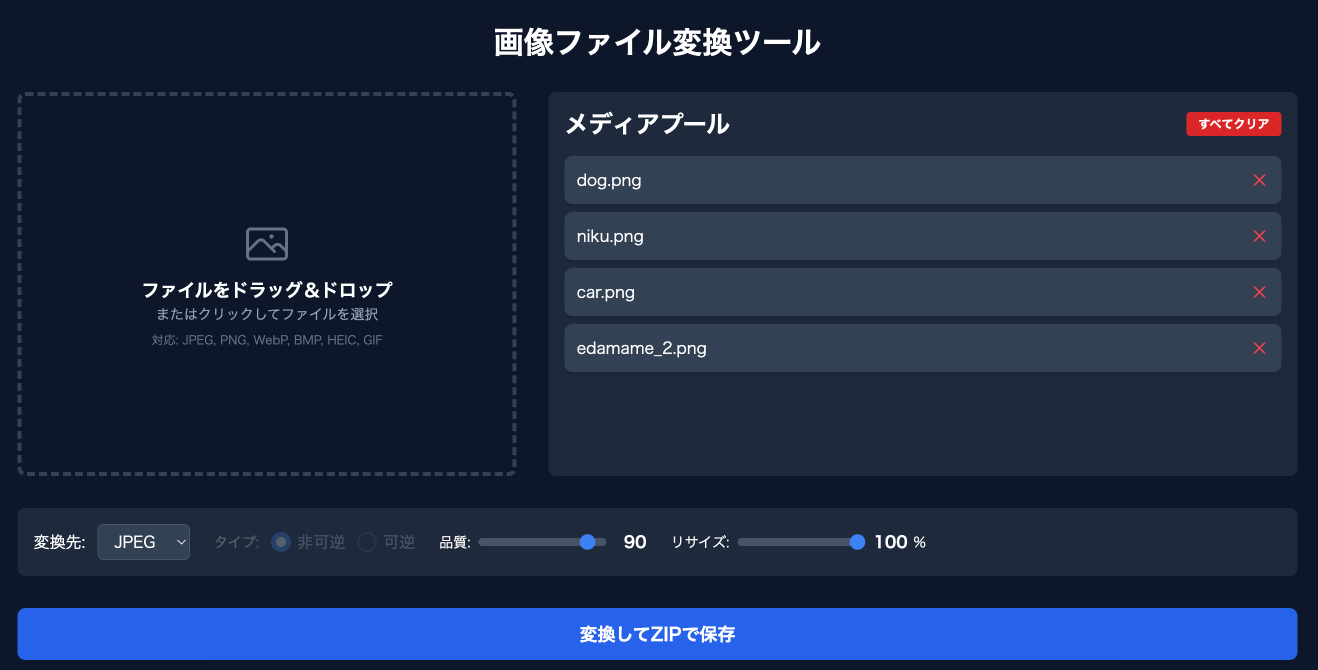
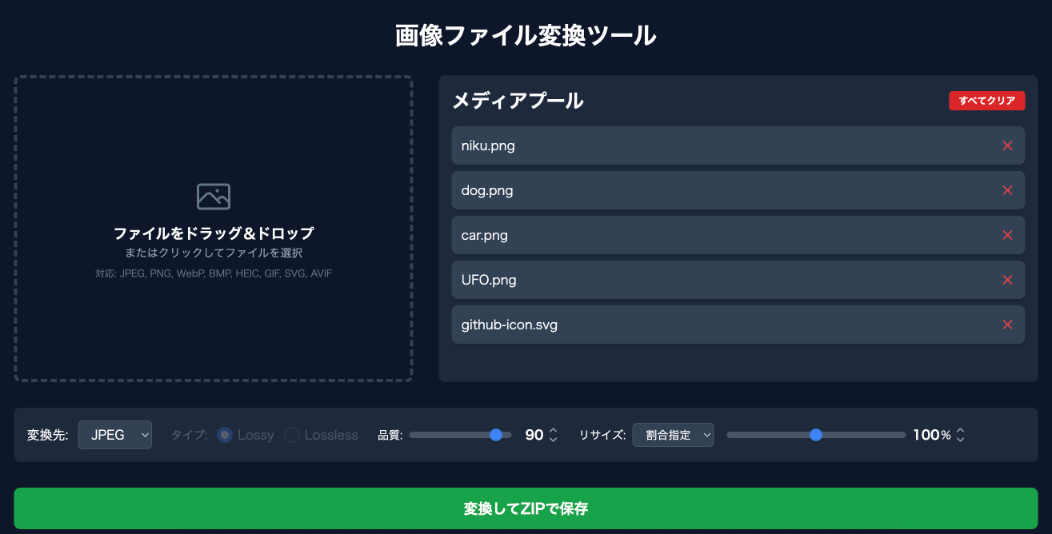
readmeを更新

diff --git a/README.md b/README.md
@@ -37,8 +37,13 @@ It supports various input formats (JPEG, PNG, WebP, BMP, HEIC, GIF, SVG, AVIF) a
 2.  Files are added to the "Media Pool." HEIC/HEIF files are automatically processed upon addition.
 3.  From the "Convert to:" (変換先) dropdown, select the desired output format.
     - Supported outputs: JPEG, PNG, WebP, BMP, AVIF
-4.  Adjust the "Quality" (品質) and "Resize" (リサイズ) sliders as needed.
-    - Quality options are available for JPEG, AVIF, and Lossy WebP.
+4.  AAdjust the conversion options as needed:
+    - Quality (品質):
+    - - Adjust the slider. This is available for JPEG, AVIF, and Lossy WebP.
+    - Resize (リサイズ):
+    - - Select a mode: "Percent" (割合指定) or "Pixel" (寸法指定).
+    - - Percent: Adjust the slider to scale the image (e.g., 50%).
+    - - Pixel: Enter the exact target "Width" (幅) and "Height" (高さ). 
 5.  Click the "Convert and Save as ZIP" (変換してZIPで保存) button.
 6.  A ZIP file containing all converted images will be downloaded.
 
@@ -48,8 +53,13 @@ It supports various input formats (JPEG, PNG, WebP, BMP, HEIC, GIF, SVG, AVIF) a
 2.  ファイルが「メディアプール」に追加されます。HEIC/HEIFファイルは追加時に自動的に処理されます。
 3.  「変換先」ドロップダウンから、希望する出力形式を選択します。
     - 対応出力形式: JPEG, PNG, WebP, BMP, AVIF
-4.  必要に応じて「品質」や「リサイズ」のスライダーを調整します。
-    - 品質オプションは JPEG, AVIF, WebP(Lossy) で利用可能です。
+4.  必要に応じて変換オプションを調整します。
+    - 品質 (Quality):
+    - - スライダーで調整します。JPEG, AVIF, WebP(Lossy) で利用可能です。
+    - リサイズ (Resize):
+    - - 「割合指定」または「寸法指定」のモードを選択します。
+    - - 割合指定: スライダーで画像の拡大・縮小率（例: 50%）を指定します。
+    - - 寸法指定: 「幅」と「高さ」に直接ピクセル値を入力します。
 5.  「変換してZIPで保存」ボタンをクリックします。
 6.  変換されたすべての画像を含むZIPファイルがダウンロードされます。
 
